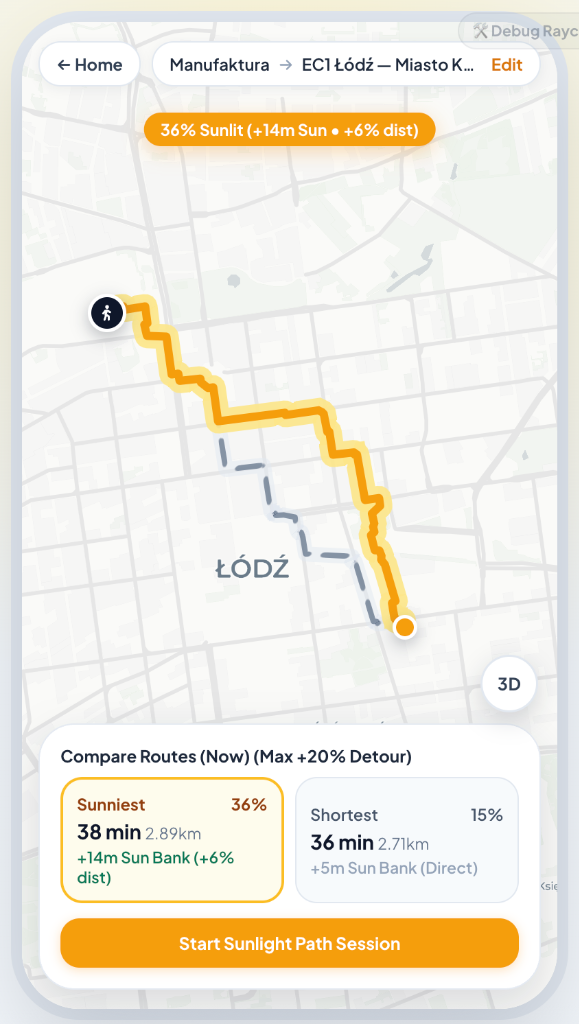
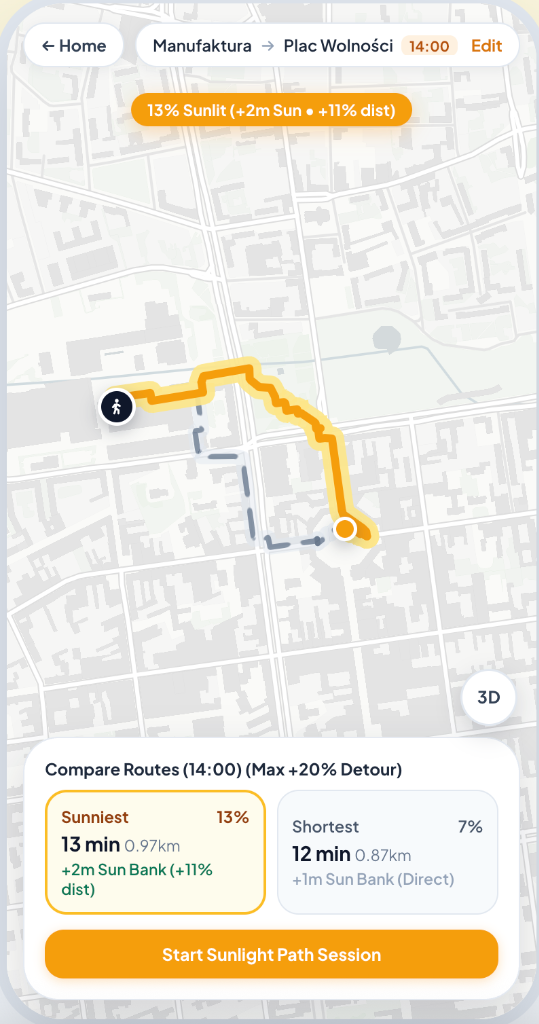
feat: update real screen showcase with 3 newly uploaded matching screens

diff --git a/src/App.jsx b/src/App.jsx
@@ -534,10 +534,10 @@ export default function App() {
             {/* Screen 01: Sunlight Path Router */}
             <div className="screenshot-showcase-card">
               <div className="clean-screen-card">
-                <div className="phone-corner-tag">3D SHADOW MESH</div>
+                <div className="phone-corner-tag">13% SUNLIT · +2m SUN</div>
                 <img
                   src="/screens/screen-path.png"
-                  alt="Sunlight Path Router"
+                  alt="Sunlight Path Router - Manufaktura to Plac Wolności"
                   className="clean-screen-img"
                 />
               </div>
@@ -548,17 +548,17 @@ export default function App() {
                   Sunlight Path Router
                 </h3>
                 <p style={{ fontSize: '0.88rem', color: '#475569', lineHeight: 1.55 }}>
-                  Calculates pedestrian walking routes optimized for direct sun exposure. Compares <strong>Sunniest (38 min · 36% sunlit)</strong> vs. <strong>Shortest (36 min · 15% sunlit)</strong> between Manufaktura and EC1 Łódź.
+                  Calculates walking routes optimized for direct sun. Compares <strong>Sunniest (13 min · 0.97 km · 13% sunlit)</strong> vs. <strong>Shortest (12 min · 0.87 km · 7% sunlit)</strong> from Manufaktura to Plac Wolności.
                 </p>
 
                 <div className="screen-specs-list">
                   <div className="screen-spec-item">
                     <span className="screen-spec-bullet">✓</span>
-                    <span><strong>+140% more sun:</strong> Just a 2-minute detour escapes freezing building shadows.</span>
+                    <span><strong>Double Sun Exposure:</strong> Just +1 min walk (+11% detour) adds +2 min of verified sunlight.</span>
                   </div>
                   <div className="screen-spec-item">
                     <span className="screen-spec-bullet">✓</span>
-                    <span><strong>3D Raytraced Shadows:</strong> Modeled building geometries cast accurate dark polygons onto streets.</span>
+                    <span><strong>3D Building Shadows:</strong> Accurately raytraces real-time shadow geometries along urban corridors.</span>
                   </div>
                 </div>
               </div>
@@ -570,7 +570,7 @@ export default function App() {
                 <div className="phone-corner-tag">TIME SCRUBBER · 13:00</div>
                 <img
                   src="/screens/screen-spots-overview.png"
-                  alt="Sunny Spots City Map"
+                  alt="Sunny Spots City Map - 12 Sunlit Spots"
                   className="clean-screen-img"
                 />
               </div>
@@ -581,17 +581,17 @@ export default function App() {
                   Sunny Spots City Map
                 </h3>
                 <p style={{ fontSize: '0.88rem', color: '#475569', lineHeight: 1.55 }}>
-                  Interactive time-of-day scrubber allows moving through 8:00–16:00 to reveal 12 unshaded spots across central Łódź at the 13:00 lunch peak.
+                  Time scrubber (08:00–16:00) highlights 12 active unshaded spots in central Łódź at the 13:00 peak, including Plac Dąbrowskiego (90% sun) and EC1 Łódź.
                 </p>
 
                 <div className="screen-specs-list">
                   <div className="screen-spec-item">
                     <span className="screen-spec-bullet">✓</span>
-                    <span><strong>12 Citywide Pockets:</strong> Real-time unshaded locations across Piotrkowska, Plac Wolności, and EC1.</span>
+                    <span><strong>12 Sunlit Pockets:</strong> Real-time unshaded locations across Plac Dąbrowskiego, EC1, and Piotrkowska.</span>
                   </div>
                   <div className="screen-spec-item">
                     <span className="screen-spec-bullet">✓</span>
-                    <span><strong>Hourly Scrubber:</strong> Plan outdoor lunch breaks around peak direct sun windows.</span>
+                    <span><strong>Distance &amp; Hours:</strong> Shows walking distance (1847m) and clear sun windows (11:15–14:40).</span>
                   </div>
                 </div>
               </div>
@@ -600,7 +600,7 @@ export default function App() {
             {/* Screen 03: Sun Rewards Catalog */}
             <div className="screenshot-showcase-card">
               <div className="clean-screen-card">
-                <div className="phone-corner-tag">SUN BANK · 3h 57m</div>
+                <div className="phone-corner-tag">SUN BANK · 4h 58m</div>
                 <img
                   src="/screens/screen-rewards.png"
                   alt="Sun Rewards Catalog"
@@ -614,7 +614,7 @@ export default function App() {
                   Sun Rewards Catalog
                 </h3>
                 <p style={{ fontSize: '0.88rem', color: '#475569', lineHeight: 1.55 }}>
-                  Tracks verified outdoor daylight toward the clinical 3-hour weekly threshold. Automatically unlocks vouchers for partner cafés in Łódź.
+                  Tracks verified daylight (4h 58m / 298 mins accumulated) toward the clinical 3-hour weekly goal. Automatically unlocks vouchers across Łódź.
                 </p>
 
                 <div className="screen-specs-list">
